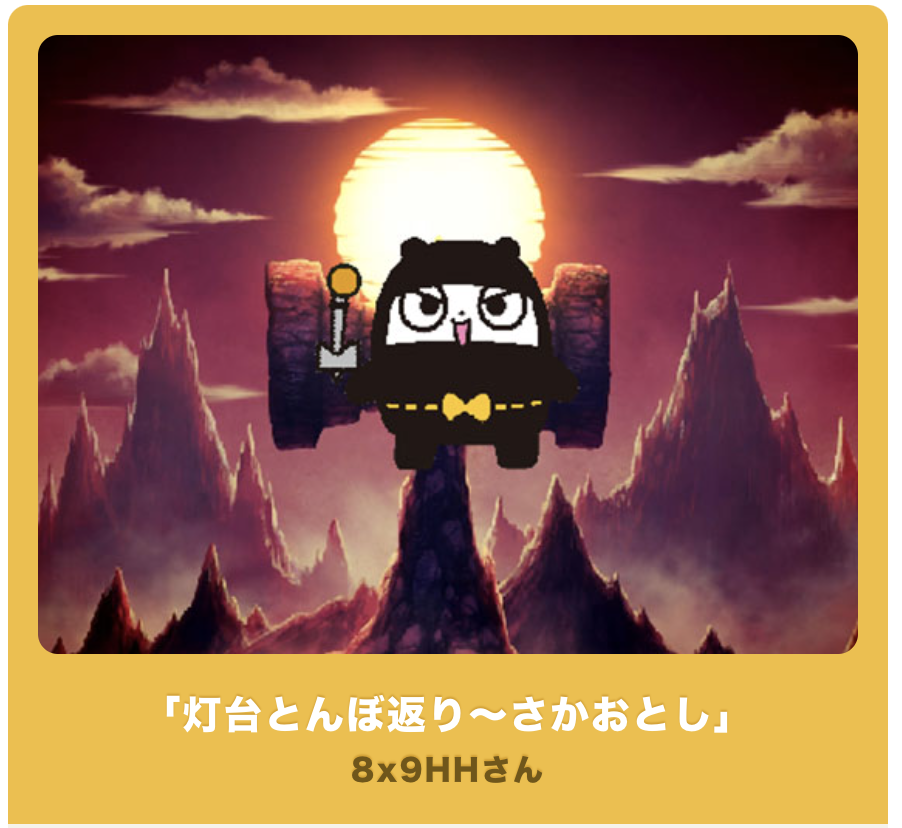
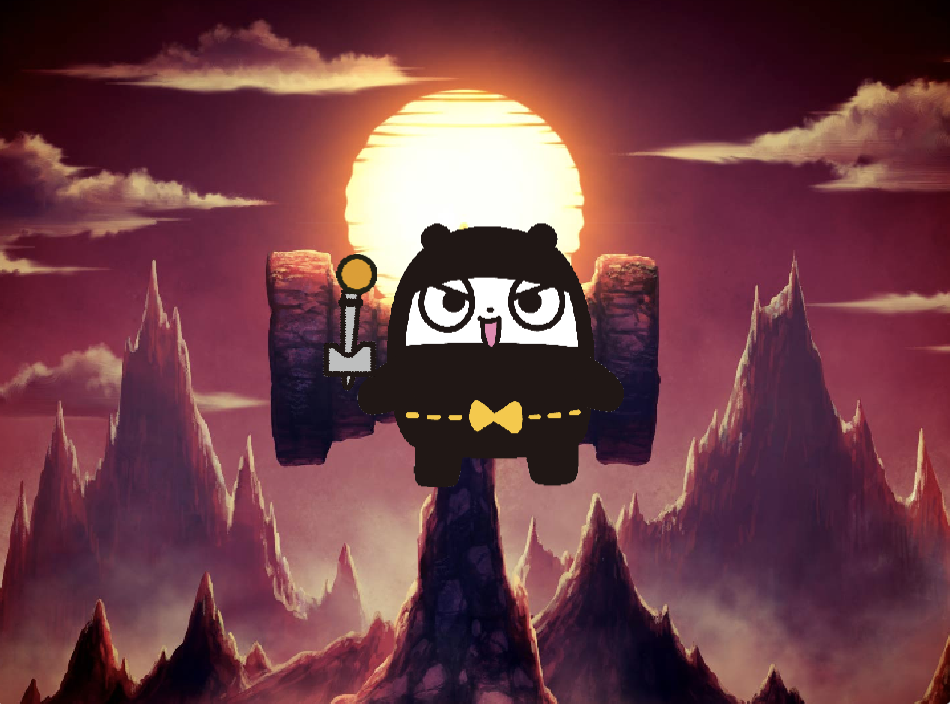
Update ninja kids contest description and image
- Clean up description text for ninja kids contest award
- Update achievement04.png image

🤖 Generated with [Claude Code](https://claude.ai/code)

diff --git a/index.html b/index.html
@@ -193,7 +193,7 @@
                         </div>
                         <div class="work-content">
                             <h3 class="work-title">忍者キッズ2020in福岡で受賞</h3>
-                            <p class="work-description">忍者キッズ2020in福岡でレノボ賞をいただきました画像ソース:https://ninja-bear.com/njk2020/</p>
+                            <p class="work-description">忍者キッズ2020in福岡でレノボ賞をいただきました</p>
                             <div class="work-tags">
                                 <span class="work-tag">Scratch</span>
 
